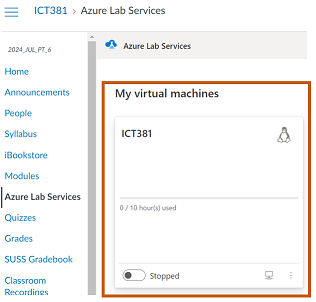
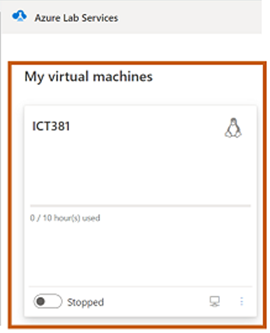
revise ALS guide

diff --git a/ALS_GUIDE.md b/ALS_GUIDE.md
@@ -2,23 +2,29 @@
 
 This article will provide detailed information about Azure Lab Services.
 
+## Prerequisites
+
+Before you begin:
+
+1. Check your inbox for an invitation email from Microsoft about Azure Lab Services.
+2. Accept the invitation and click the link to redeem your virtual machine.
+3. If you did not receive the invitation email, refer to the discussion forum on Canvas to register and get access.
+
 ## Accessing and starting your virtual machine
 
-1. Login to Canvas and navigate to [**L group**](https://canvas.suss.edu.sg/courses/83725) course site.
+1. Login to [Azure Lab Services](https://labs.azure.com) to access your virtual machine.
 
-2. Click **Azure Lab Services** on the left menu.
-
-3. Your assigned virtual machine will be displayed.
+2. Your assigned virtual machine will be displayed.
 
    ![](images/als/step1c.png)
 
-4. Toggle the switch to start your virtual machine.
+3. Toggle the switch to start your virtual machine.
 
    ![](images/als/step1d.png)
 
-5. Allow some time for the virtual machine to get started and running.
+4. Allow some time for the virtual machine to get started and running.
 
-6. After the virtual machine is up and running, click the blue desktop icon. You'll see two options to connect to the virtual machine.
+5. After the virtual machine is up and running, click the blue desktop icon. You'll see two options to connect to the virtual machine.
 
    ![](images/als/step1f.png)
 
@@ -73,7 +79,7 @@ MAC users should install the Windows App application, which is crucial for conne
 
 * Open App Store on your MAC and search for **Windows App**.
 
-  > NOTE: Please take note of the compatability version of this application. It requires macOS 12.0 and above.
+  > NOTE: Please take note of the compatability version of this application. It requires macOS 14.0 and above.
 
   [https://apps.apple.com/us/app/microsoft-remote-desktop/id1295203466](https://apps.apple.com/us/app/microsoft-remote-desktop/id1295203466)
 
@@ -159,7 +165,42 @@ Users can use the command `passwd` to change their password.
 * For additional quota hours due to genuine needs (eg. extra practice/assignment):
     * Please send a request to your instructor, including the reasons and copy Administrator (hltoh@suss.edu.sg). Requests will reviewed on a case-by-case basis and additional hours will be granted if approved.
 
+## Resizing RDP Virtual Desktop Screen (For Windows)
 
+For Windows user, you can take advantage of automatic screen resizing by using Windows App, which is available for download in Microsoft Store. For MAC users, the Windows App already includes this feature.
+
+After you have turned on the virtual machine, retrieve your connection information. You can do so by clicking on the 3 dots at the right-hand side of the virtual machine and click show RDP information.
+
+![](images/als/resize-rdp-info.png)
+
+You should get a screen that resembles this sample screenshot.
+
+![](images/als/resize-rdp-info-box.png)
+
+Press the copy button to copy the information. Next, open **Windows App** and choose **Add a remote PC** > **Add a device** > **Choose a resource to add**.
+
+Follow the steps below:
+
+*  Click **Additional Settings**.
+*  Paste the information you retrieved into the PC name field.
+*	In the Display Name field, you can consider entering the course code for easier identification of the machine.
+*  On the left horizontal menu, click Display.
+*	Ensure the buttons are toggled to turn on for these 2 options.
+      *  Fit session to window
+      *  Single display when in windowed mode
+*  Click **Add & Connect**.
+
+You will be prompted to login using your credential.
+
+After logging in successfully, you should be able to see your virtual desktop.
+
+You can adjust the screen sizing to your own preference by the following steps:
+
+1. If you are in a full screen mode, move your mouse cursor to the top and click on the second button (Restore down button) on the top right-hand corner to exit full screen mode.
+2. Once you have exited the full screen, you can click on the top bar and drag left or right. It should now be in a windowed mode.
+3. You can then adjust the window by dragging its edges. The virtual desktop screen will automatically resize to match the window.
+
+On the subsequent visit, you can just double click the virtual machine to connect to it directly. There is no need for you to add the virtual machine again.
 
 ## IT Support
 
